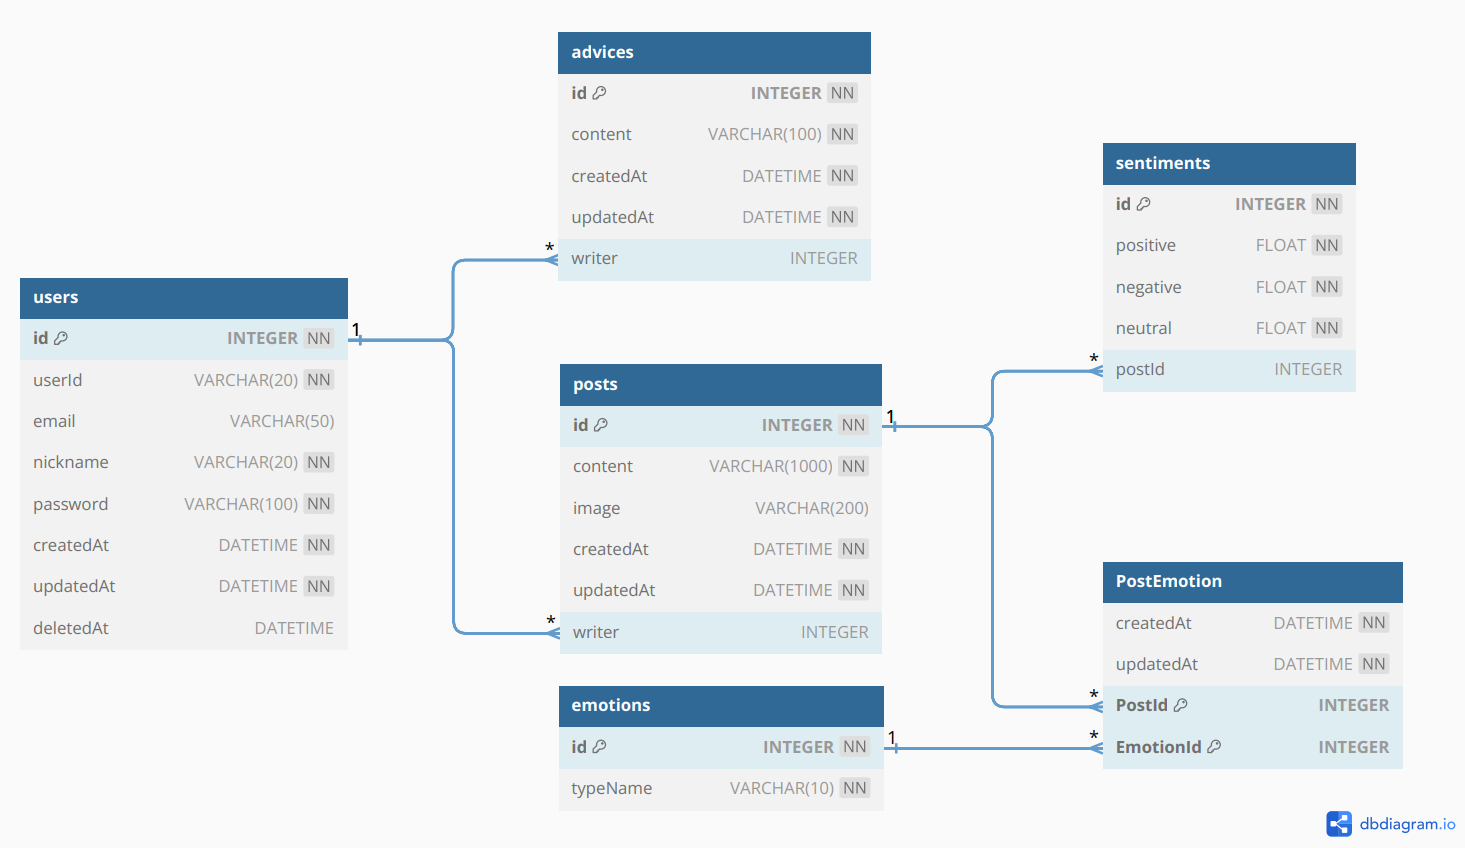
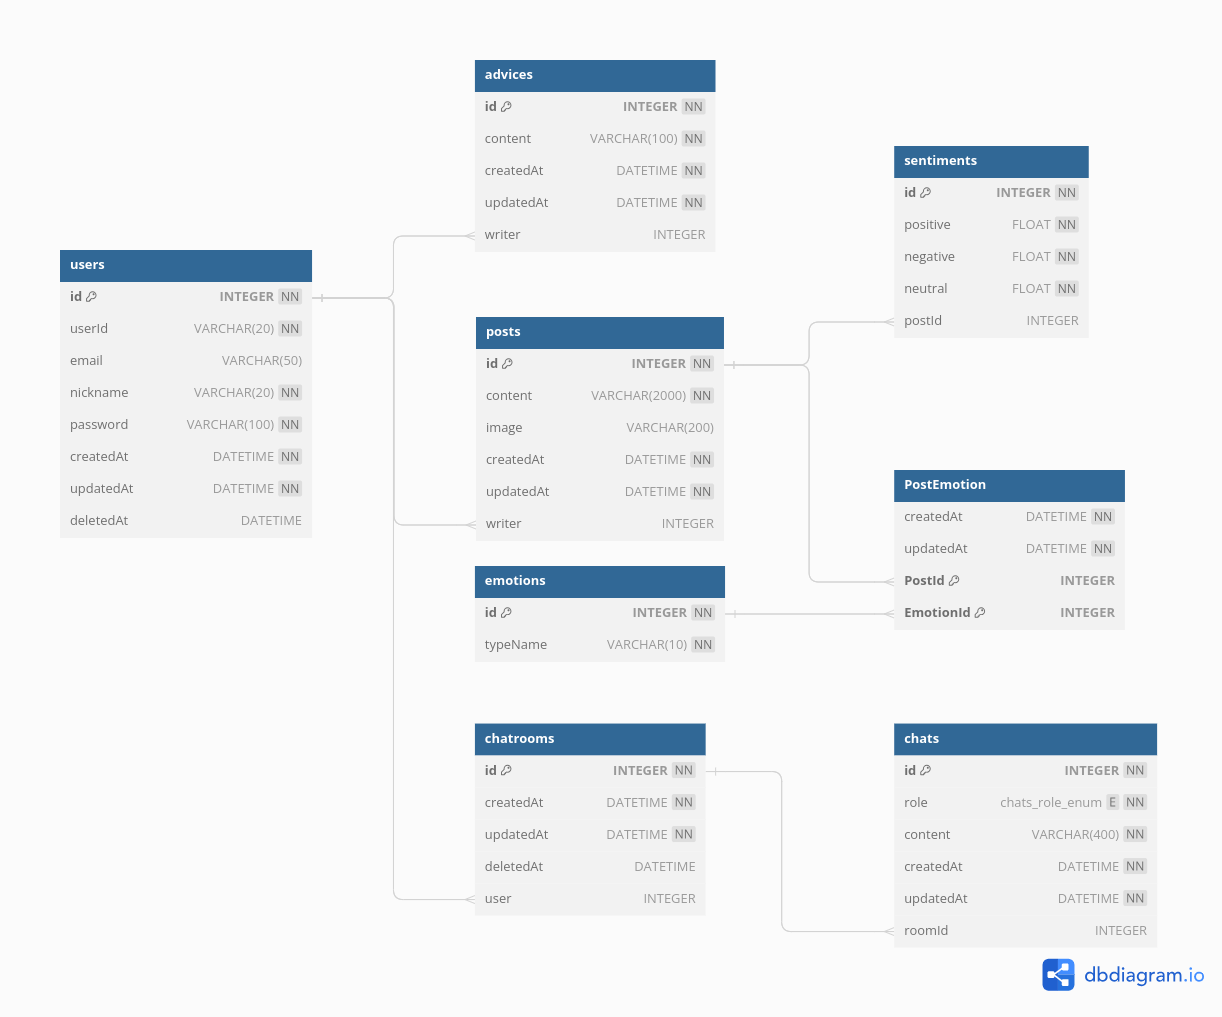
Feat: 데이터베이스 모델 추가
- Chatroom: 채팅방 모델
- Chat: (채팅방의) 채팅 모델

diff --git a/backend/models/chat.js b/backend/models/chat.js
@@ -1,0 +1,43 @@
+/**
+ * [대화 테이블]
+ * @id          로우 고유의 ID
+ * @roomId      대화방의 ID
+ * @role        메시지 생성자(AI or 사용자)
+ * @content     메시지 내용
+ * @createdAt   대화 전송 일시
+ * @updatedAt   로우 수정 일시
+ */
+const Sequelize = require("sequelize");
+
+class Chat extends Sequelize.Model {
+    static initiate(sequelize) {
+        Chat.init({
+            role: {
+                type: Sequelize.ENUM(
+                    "user",                     // 사용자
+                    "assistant"                 // AI
+                ),                              // 메시지 생성자
+                allowNull: false,               // null을 허용하지 않는다.
+            },
+
+            content: {
+                type: Sequelize.STRING(400),    // 최대 길이 400(한글 200자)
+                allowNull: false,               // null을 허용하지 않는다.
+            },
+        }, {
+            sequelize,
+            timestamps: true,
+            underscored: false,
+            modelName: "Chat",
+            tableName: "chats",
+            charset: "utf8",
+            collate: "utf8_general_ci",
+        });
+    }
+
+    static associate(db) {
+        db.Chat.belongsTo(db.Chatroom, { foreignKey: "roomId", targetKey: "id" });
+    }
+};
+
+module.exports = Chat;

diff --git a/backend/models/chatroom.js b/backend/models/chatroom.js
@@ -1,0 +1,33 @@
+/**
+ * [대화방 테이블]
+ * @id          로우 고유의 ID
+ * @user        대화 사용자
+ * @createdAt   대화 시작 일시
+ * @updatedAt   로우 수정 일시
+ * @deletedAt   로우 삭제 일시
+ */
+const Sequelize = require("sequelize");
+
+class Chatroom extends Sequelize.Model {
+    static initiate(sequelize) {
+        Chatroom.init({
+
+        }, {
+            sequelize,
+            timestamps: true,
+            underscored: false,
+            modelName: "Chatroom",
+            tableName: "chatrooms",
+            paranoid: true,
+            charset: "utf8",
+            collate: "utf8_general_ci",
+        });
+    }
+
+    static associate(db) {
+        db.Chatroom.belongsTo(db.User, { foreignKey: "user", targetKey: "id" });
+        db.Chatroom.hasMany(db.Chat, { foreignKey: "roomId", sourceKey: "id", onDelete: "cascade" });
+    }
+};
+
+module.exports = Chatroom;

diff --git a/backend/models/index.js b/backend/models/index.js
@@ -4,6 +4,8 @@ const Advice = require("./advice");
 const Post = require("./post");
 const Emotion = require("./emotion");
 const Sentiment = require("./sentiment");
+const Chatroom = require("./chatroom");
+const Chat = require("./chat");
 const env = process.env.NODE_ENV || "development";
 const config = require("../config/config")[env];
 
@@ -18,17 +20,23 @@ db.Advice = Advice;
 db.Post = Post;
 db.Emotion = Emotion;
 db.Sentiment = Sentiment;
+db.Chatroom = Chatroom;
+db.Chat = Chat;
 
 User.initiate(sequelize);
 Advice.initiate(sequelize);
 Post.initiate(sequelize);
 Emotion.initiate(sequelize);
 Sentiment.initiate(sequelize);
+Chatroom.initiate(sequelize);
+Chat.initiate(sequelize);
 
 User.associate(db);
 Advice.associate(db);
 Post.associate(db);
 Emotion.associate(db);
 Sentiment.associate(db);
+Chatroom.associate(db);
+Chat.associate(db);
 
 module.exports = db;

diff --git a/backend/models/user.js b/backend/models/user.js
@@ -50,6 +50,7 @@ class User extends Sequelize.Model {
     static associate(db) {
         db.User.hasMany(db.Post, { foreignKey: "writer", sourceKey: "id", onDelete: "cascade" });
         db.User.hasMany(db.Advice, { foreignKey: "writer", sourceKey: "id", onDelete: "cascade" });
+        db.User.hasMany(db.Chatroom, { foreignKey: "user", sourceKey: "id", onDelete: "cascade" });
     }
 };
 

diff --git a/backend/models/post.js b/backend/models/post.js
@@ -10,7 +10,7 @@ class Post extends Sequelize.Model {
     static initiate(sequelize) {
         Post.init({
             content: {
-                type: Sequelize.STRING(1000),   // 최대 길이 1000
+                type: Sequelize.STRING(2000),   // 최대 길이 2000(한글 1000자)
                 allowNull: false,               // null을 허용하지 않는다.
             },
 

diff --git a/README.md b/README.md
@@ -123,7 +123,6 @@
 | :--: | :-- | :--: | :-- |
 | GET | /emotions?{postId} | e-01 | 특정 일기장에 매핑된 감정 모두 조회 |
 | GET | /emotions?{year}&{month}&{day} | e-02 | 특정 날짜에 매핑된 감정 모두 조회 |
-| 
 
 ### 감성
 
